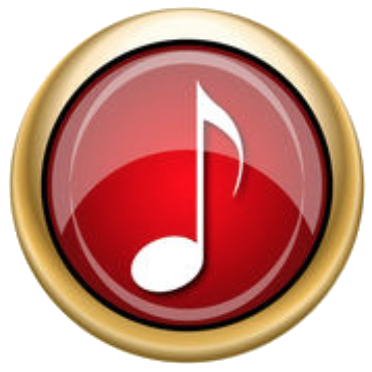
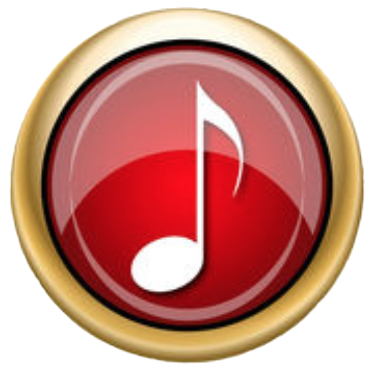
Sound on off finished.

diff --git a/core/src/by/android/cradle/SettingsScreen.java b/core/src/by/android/cradle/SettingsScreen.java
@@ -11,6 +11,7 @@ import com.badlogic.gdx.scenes.scene2d.ui.Dialog;
 import com.badlogic.gdx.scenes.scene2d.ui.TextButton;
 import com.badlogic.gdx.scenes.scene2d.utils.TextureRegionDrawable;
 import com.badlogic.gdx.scenes.scene2d.ui.Dialog;
+import com.badlogic.gdx.utils.Align;
 import com.badlogic.gdx.utils.I18NBundle;
 
 public class SettingsScreen extends BaseScreen {
@@ -45,7 +46,7 @@ public class SettingsScreen extends BaseScreen {
         buttonStyle.up = new TextureRegionDrawable( buttonRegion );
 
         Button closeButton = new Button( buttonStyle );
-        closeButton.setSize(h*0.25f,h*0.25f);
+        closeButton.setSize(h*0.15f,h*0.15f);
         closeButton.setPosition(10,h-10-closeButton.getHeight());
         uiStage.addActor(closeButton);
 
@@ -76,9 +77,10 @@ public class SettingsScreen extends BaseScreen {
         });
 
 
-        uiTable.row();
-        uiTable.add(restartButton);
-
+       // uiTable.row();
+        //uiTable.add(restartButton);
+        uiStage.addActor(restartButton);
+        restartButton.setPosition(w/2f,h/3f, Align.center);
 
         //Music button
         buttonStyle = new Button.ButtonStyle();
@@ -125,8 +127,8 @@ public class SettingsScreen extends BaseScreen {
 
         //Sound button
         Button.ButtonStyle buttonStyle2 = new Button.ButtonStyle();
-        Texture buttonTex3 = new Texture(Gdx.files.internal("sound_on_button.png"));
-        Texture buttonTex4 = new Texture(Gdx.files.internal("sound_off_button.png"));
+        Texture buttonTex3 = new Texture(Gdx.files.internal("sound_on_button02.png"));
+        Texture buttonTex4 = new Texture(Gdx.files.internal("sound_off_button02.png"));
         TextureRegion buttonRegion3 =  new TextureRegion(buttonTex3);
         TextureRegion buttonRegion4 =  new TextureRegion(buttonTex4);
         buttonStyle2.up = new TextureRegionDrawable( buttonRegion3 );
@@ -134,7 +136,7 @@ public class SettingsScreen extends BaseScreen {
 
         final Button soundButton = new Button( buttonStyle2 );
         soundButton.setSize(h*0.25f,h*0.25f);
-        soundButton.setPosition(w*0.7f,h-200-closeButton.getHeight());
+        soundButton.setPosition(w*0.55f,h-200-closeButton.getHeight());
         if (cradleGame.isSoundOn()) {
             soundButton.setChecked(false);
         }else {

diff --git a/core/src/by/android/cradle/ScreenGamePlay.java b/core/src/by/android/cradle/ScreenGamePlay.java
@@ -810,7 +810,9 @@ public void RemoveAndFillSquare(int centreRow, int centreCol, int squareSize){
             boom.centerAtActor( item1 );
             boom.start();
             //Explosion sound
+            if(cradleGame.isSoundOn()){
             explosionSound.play(1f);
+            }
 
             mainStage.addActor(boom);
             gameField.changeGameCell(item1.getCell());

diff --git a/core/src/by/android/cradle/MenuScreen.java b/core/src/by/android/cradle/MenuScreen.java
@@ -65,6 +65,7 @@ public class MenuScreen extends BaseScreen {
 
         String s = cradleGame.getLanguageStrings().get("start");
         TextButton startButton = new TextButton( "   "+s+"   " , BaseGame.textButtonStyle );
+
         startButton.setScale(2,2);
 
         startButton.addListener(new InputListener() {
